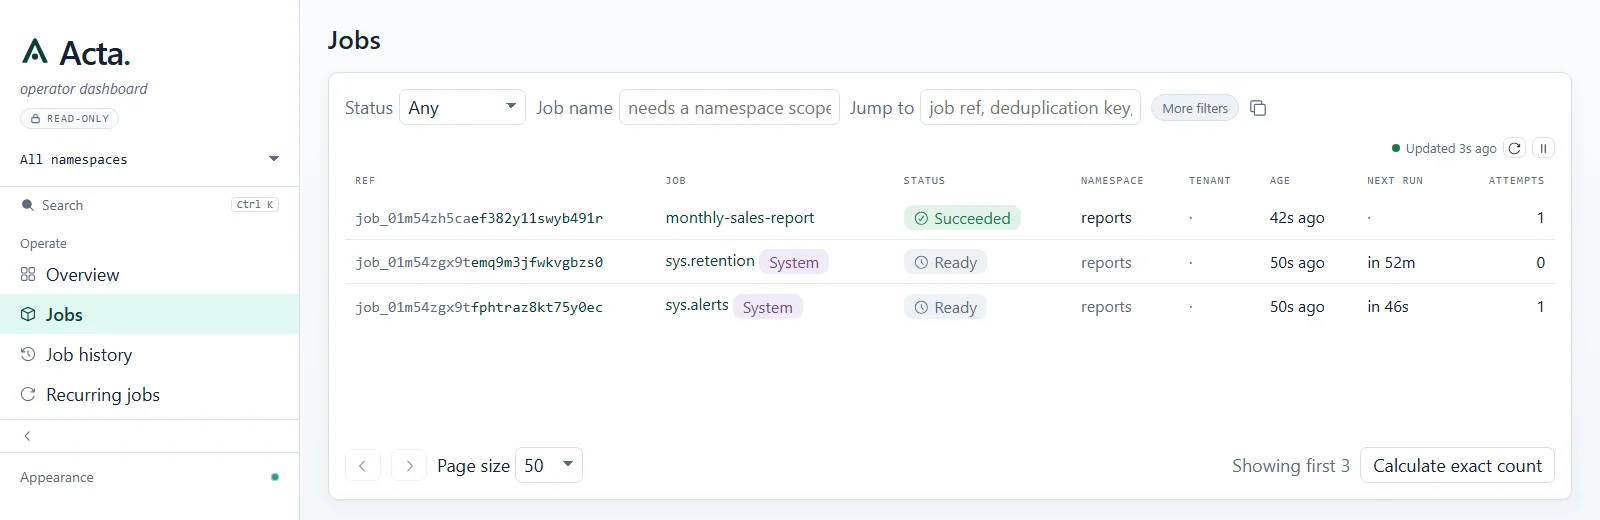
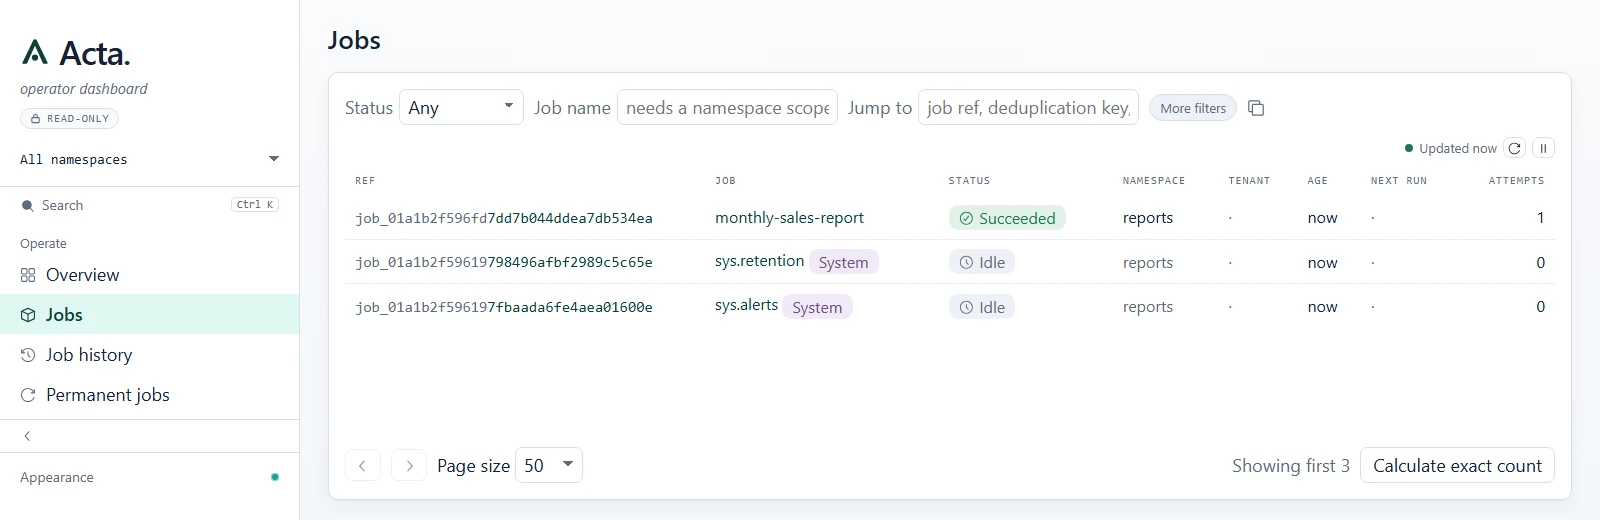
Recapture the dashboard screenshots
The four screenshots on the site and in the README showed the
previous dashboard: a sidebar entry that has since been renamed,
the old job-ref form, and system jobs as Ready where they now rest
Idle. They are retaken at the same sizes and themes, the tutorial's
three by walking the tutorial from its own code blocks against
locally packed packages.

The walk also showed two things the tutorial text had wrong: the
events listing prints details where it printed a reason line, and
the first crash recovery after switching to the short heartbeat
can take up to three minutes, not seconds, because the earlier
runs scheduled the pass one default lease ahead.

diff --git a/site/learn.html b/site/learn.html
@@ -426,7 +426,7 @@ Total:  5,426.50
         <h2 id="dashboard-title">The job in the dashboard</h2>
         <p>Open <a href="http://localhost:5080/acta">http://localhost:5080/acta</a> in your browser. The Overview page summarises everything Acta knows about this database. Choose <strong>Jobs</strong> in the sidebar and you will see your report and two others:</p>
         <figure class="shot">
-          <a href="assets/learn-jobs.webp" title="Open the full-size screenshot"><img src="assets/learn-jobs.webp" width="1600" height="520" loading="lazy" alt="The Acta dashboard Jobs page listing one monthly-sales-report job as Succeeded with 1 attempt, and two jobs named sys.retention and sys.alerts, marked System and Ready, all in the reports namespace." /></a>
+          <a href="assets/learn-jobs.webp" title="Open the full-size screenshot"><img src="assets/learn-jobs.webp" width="1600" height="520" loading="lazy" alt="The Acta dashboard Jobs page listing one monthly-sales-report job as Succeeded with 1 attempt, and two jobs named sys.retention and sys.alerts, marked System and Idle, all in the reports namespace." /></a>
           <figcaption>The Jobs page after the first report. The two System jobs are Acta's own housekeeping.</figcaption>
         </figure>
         <p>The rows marked System are jobs Acta registers in every namespace. <code>sys.alerts</code> turns failures into alert records, and <code>sys.retention</code> deletes finished jobs after their retention period, 90 days by default. They are ordinary jobs, stored and scheduled the same way as yours.</p>
@@ -452,7 +452,7 @@ Total:  5,426.50
         </figure>
         <p>Terminal 1 now shows the handler starting, a warning with the <code>FileNotFoundException</code> and its stack trace, and a line saying the job was re-armed. Ten seconds later the same thing happens with <code>execution 2</code>, then <code>execution 3</code>. Open the job in the dashboard:</p>
         <figure class="shot">
-          <a href="assets/learn-retrying.webp" title="Open the full-size screenshot"><img src="assets/learn-retrying.webp" width="1600" height="1100" loading="lazy" alt="The dashboard's detail page for the September job. The header reads Ready, scheduled to run in 7s, with the message Could not find file sales-2026-09.csv. The summary shows Status Ready, Next run in 5s, and Attempts: 4 started, 4 consecutive failures, fails permanently at 10." /></a>
+          <a href="assets/learn-retrying.webp" title="Open the full-size screenshot"><img src="assets/learn-retrying.webp" width="1600" height="1100" loading="lazy" alt="The dashboard's detail page for the September job. The header reads Ready, scheduled to run in 9s, with the message Could not find file and the path of sales-2026-09.csv. The summary shows Status Ready, Next run in 9s, and Attempts: 4 started, 4 consecutive failures, fails permanently at 10." /></a>
           <figcaption>The September job between attempts. Ready, with a next-run time, is how a waiting retry looks.</figcaption>
         </figure>
         <p>This is the page to learn to read. Ready with a next-run time means "waiting for the next attempt", not "stuck". The reason is the stored exception message, and "4 started, 4 consecutive failures (fails permanently at 10)" says exactly how much patience is left. Further down, the timeline lists every attempt. The terminal tells the same story:</p>
@@ -465,11 +465,11 @@ Total:  5,426.50
           <pre><code>Events for job job_01a0de39d88773688d0471583be99b40 (newest first)
 
 2026-09-26T14:59:28.3810000Z  job.rescheduled  worker wrk_01a0de39d64c7c59833aad068bd93bdc  exec 5
-  reason: unhandled-exception
   message: Could not find file 'D:\tmp\acta-learn\walk\Reports\data\sales-2026-09.csv'.
+  details: {"reason":"unhandled-exception"}
 2026-09-26T14:59:28.3810000Z  job.execution-failed  worker wrk_01a0de39d64c7c59833aad068bd93bdc  exec 5
-  reason: unhandled-exception
-  message: Could not find file 'D:\tmp\acta-learn\walk\Reports\data\sales-2026-09.csv'.</code></pre>
+  message: Could not find file 'D:\tmp\acta-learn\walk\Reports\data\sales-2026-09.csv'.
+  details: {"to":"ready","reason":"unhandled-exception"}</code></pre>
         </figure>
         <p>Now play the part of the upstream system and deliver the export. Create <code>data/sales-2026-09.csv</code> while the job is still retrying:</p>
         <figure class="listing">
@@ -649,7 +649,7 @@ Next actions:
 - Cancel the job if it should not continue.</code></pre>
         </figure>
         <p>The job still claims to be executing, because the process running it never said otherwise, but its lease has expired and nothing has renewed it. The first step's outcome is recorded; the second step started and never finished. Run the command in the first seconds after the kill and you will see "Lease expires in 5s" instead: until the lease runs out, a dead process and a slow one look the same, and Acta waits before deciding.</p>
-        <p>Now restart the app in Terminal 1 with the same command, against the same <code>reports.db</code>. Enqueue nothing. Recovery rides the worker's heartbeat and runs once a lease, eight seconds here, so within seconds the new process finds the expired lease, marks the old attempt as orphaned, returns the job to Ready, and claims it:</p>
+        <p>Now restart the app in Terminal 1 with the same command, against the same <code>reports.db</code>. Enqueue nothing. Recovery rides the worker's heartbeat and runs once a lease, eight seconds here, so within seconds the new process finds the expired lease, marks the old attempt as orphaned, returns the job to Ready, and claims it. If you came here quickly from the earlier sections, give it up to three minutes this first time: those runs used the default heartbeat and scheduled the next recovery pass one of their own, longer leases ahead, and that pass has to come due once before the eight-second rhythm takes over.</p>
         <figure class="listing output">
           <figcaption><span class="note">Terminal 1 after the restart, from our test run (trimmed)</span></figcaption>
           <pre><code>info: Reports.SalesReportJobs[0]

diff --git a/site/index.html b/site/index.html
@@ -406,7 +406,7 @@
       <p class="lede">It runs inside your app and reads the same rows you can query yourself.</p>
       <figure class="shot">
         <div class="shot-media" tabindex="0" aria-label="Dashboard screenshot; horizontally scrollable on small screens">
-          <img src="assets/dash-dark-overview.webp" alt="Acta operator dashboard, dark theme: the Overview page mid-run, with a health verdict, a backlog of 25,745 ready jobs, 64 executing, no failures, no alerts, and two active workers with their heartbeats" loading="lazy" width="3200" height="2000" />
+          <img src="assets/dash-dark-overview.webp" alt="Acta operator dashboard, dark theme: the Overview page mid-run, with a health verdict, a backlog of 53,326 ready jobs, 128 executing, no failures, no alerts, and two active workers with their heartbeats" loading="lazy" width="3200" height="2000" />
         </div>
       </figure>
     </section>
